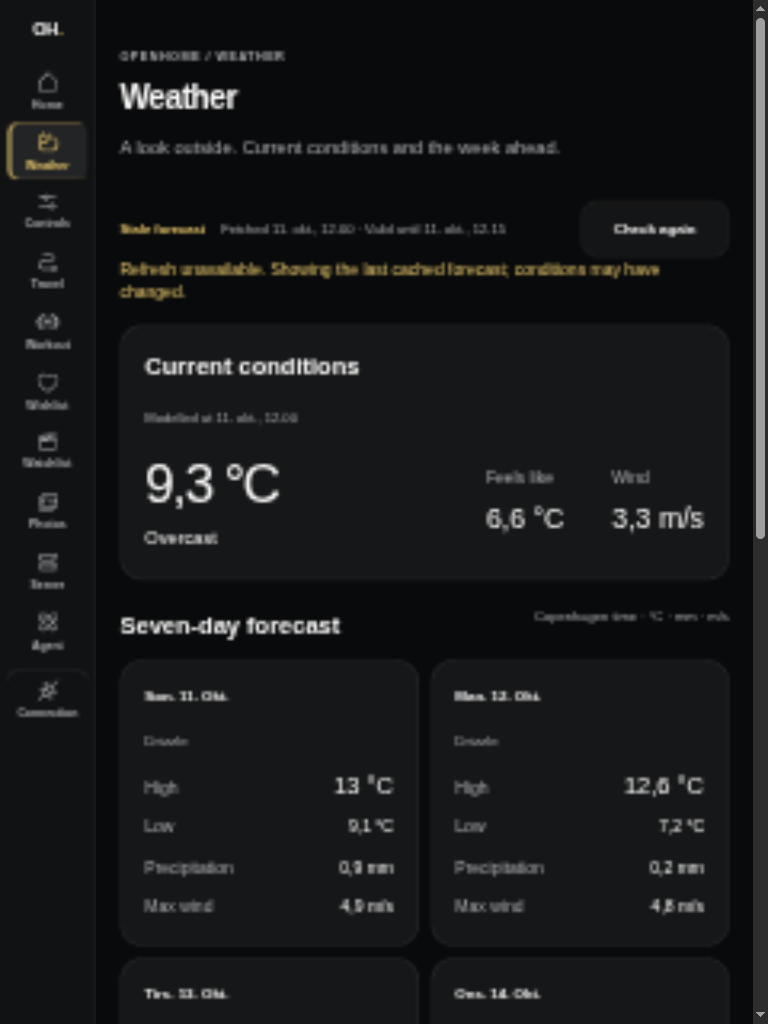
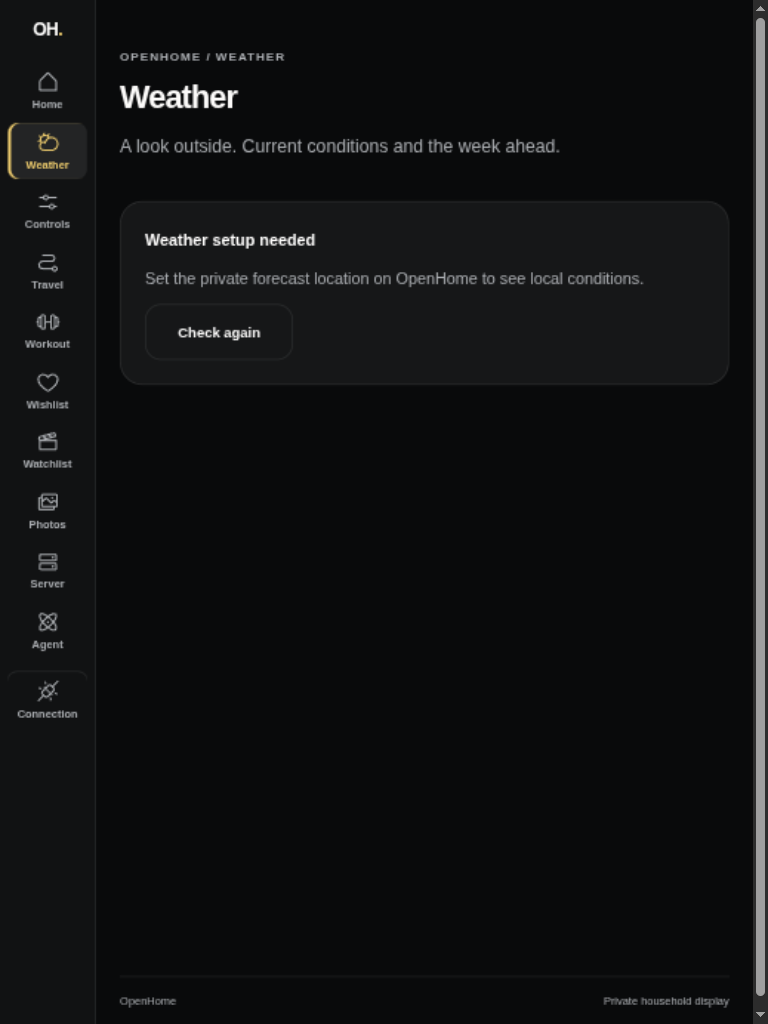
fix(dashboard): refresh weather on long-lived displays

diff --git a/dashboard/src/components/weather-overview.tsx b/dashboard/src/components/weather-overview.tsx
@@ -3,8 +3,10 @@ import { Await, Link } from "@tanstack/react-router"
 import { ArrowRightIcon } from "@phosphor-icons/react/dist/csr/ArrowRight"
 import { CloudSunIcon } from "@phosphor-icons/react/dist/csr/CloudSun"
 import { CheckAgainButton } from "./check-again-button"
+import { LiveWeather } from "./live-weather"
 import { Card, CardContent, CardHeader } from "./ui/card"
 import { weatherDescription, type WeatherRead } from "@/lib/weather"
+import { getWeather } from "@/lib/weather.functions"
 
 const number = new Intl.NumberFormat("da-DK", { maximumFractionDigits: 1 })
 
@@ -74,29 +76,35 @@ export function WeatherCard({
           <div className="flex h-full flex-col gap-2">
             <Suspense fallback={<p role="status">Checking weather…</p>}>
               <Await promise={weather}>
-                {(read) =>
-                  read.state === "unavailable" ? (
-                    <WeatherFailure reason={read.reason} />
-                  ) : (
-                    <>
-                      <p className="weather-card-temperature">
-                        {value(read.forecast.current?.temperature_c, "°C")}
-                      </p>
-                      <p>
-                        {weatherDescription(
-                          read.forecast.current?.weather_code ?? null
-                        )}
-                      </p>
-                      <p className="weather-meta">
-                        {read.state === "stale"
-                          ? "Stale forecast · "
-                          : "Fetched · "}
-                        {timestamp.format(new Date(read.forecast.fetched_at))}
-                      </p>
-                      <p className="weather-meta">Copenhagen time</p>
-                    </>
-                  )
-                }
+                {(initial) => (
+                  <LiveWeather initial={initial} readWeather={getWeather}>
+                    {(read) =>
+                      read.state === "unavailable" ? (
+                        <WeatherFailure reason={read.reason} />
+                      ) : (
+                        <>
+                          <p className="weather-card-temperature">
+                            {value(read.forecast.current?.temperature_c, "°C")}
+                          </p>
+                          <p>
+                            {weatherDescription(
+                              read.forecast.current?.weather_code ?? null
+                            )}
+                          </p>
+                          <p className="weather-meta">
+                            {read.state === "stale"
+                              ? "Stale forecast · "
+                              : "Fetched · "}
+                            {timestamp.format(
+                              new Date(read.forecast.fetched_at)
+                            )}
+                          </p>
+                          <p className="weather-meta">Copenhagen time</p>
+                        </>
+                      )
+                    }
+                  </LiveWeather>
+                )}
               </Await>
             </Suspense>
             <Link
@@ -145,8 +153,7 @@ export function WeatherOverview({
       </div>
       {weather.state === "stale" ? (
         <p className="weather-stale-note">
-          Refresh unavailable. Showing the last cached forecast; conditions may
-          have changed.
+          Showing the last cached forecast; conditions may have changed.
         </p>
       ) : null}
       <div className="weather-current">

diff --git a/dashboard/tests/weather-lifecycle.test.tsx b/dashboard/tests/weather-lifecycle.test.tsx
@@ -1,0 +1,119 @@
+// @vitest-environment happy-dom
+
+import { act } from "react"
+import { createRoot } from "react-dom/client"
+import { expect, test, vi } from "vitest"
+import { LiveWeather } from "@/components/live-weather"
+import {
+  weatherRead as weatherReadSchema,
+  type WeatherRead,
+} from "@/lib/weather"
+import fixture from "./fixtures/weather.json"
+
+test("expires an open forecast, retries failure, pauses while hidden and recovers on resume", async () => {
+  vi.stubGlobal("IS_REACT_ACT_ENVIRONMENT", true)
+  vi.useFakeTimers()
+  vi.setSystemTime(new Date("2026-10-11T10:14:30Z"))
+  const initial = weatherReadSchema.parse(fixture)
+  let reads = 0
+  let resolve: ((weather: WeatherRead) => void) | undefined
+
+  const readWeather = (): Promise<WeatherRead> => {
+    reads += 1
+
+    return new Promise((done) => {
+      resolve = done
+    })
+  }
+
+  const container = document.createElement("div")
+  const root = createRoot(container)
+
+  try {
+    await act(async () => {
+      root.render(
+        <LiveWeather initial={initial} readWeather={readWeather}>
+          {(weather) => weather.state}
+        </LiveWeather>
+      )
+    })
+    expect(container.textContent).toBe("fresh")
+    expect(reads).toBe(0)
+
+    // Resuming just before expiry can return Axum's still-fresh cached read.
+    await act(async () => {
+      document.dispatchEvent(new Event("visibilitychange"))
+    })
+    expect(reads).toBe(1)
+    await act(async () => {
+      resolve?.(initial)
+    })
+    expect(container.textContent).toBe("fresh")
+
+    await act(async () => {
+      await vi.advanceTimersByTimeAsync(30_000)
+    })
+    expect(container.textContent).toBe("stale")
+    expect(reads).toBe(2)
+    await act(async () => {
+      resolve?.({ state: "unavailable", reason: "provider-unavailable" })
+    })
+    expect(container.textContent).toBe("unavailable")
+    await act(async () => {
+      await vi.advanceTimersByTimeAsync(60_000)
+    })
+    expect(reads).toBe(3)
+    await act(async () => {
+      resolve?.({ state: "unavailable", reason: "provider-unavailable" })
+    })
+
+    Object.defineProperty(document, "visibilityState", {
+      configurable: true,
+      value: "hidden",
+    })
+    await act(async () => {
+      document.dispatchEvent(new Event("visibilitychange"))
+      await vi.advanceTimersByTimeAsync(24 * 3_600_000)
+    })
+    expect(reads).toBe(3)
+
+    Object.defineProperty(document, "visibilityState", {
+      configurable: true,
+      value: "visible",
+    })
+    await act(async () => {
+      document.dispatchEvent(new Event("visibilitychange"))
+    })
+    expect(reads).toBe(4)
+
+    const recovered = weatherReadSchema.parse({
+      ...fixture,
+      forecast: {
+        ...fixture.forecast,
+        fetched_at: new Date().toISOString(),
+        valid_until: new Date(Date.now() + 900_000).toISOString(),
+      },
+    })
+
+    await act(async () => {
+      resolve?.(recovered)
+    })
+    expect(container.textContent).toBe("fresh")
+    await act(async () => {
+      await vi.advanceTimersByTimeAsync(899_999)
+    })
+    expect(reads).toBe(4)
+    await act(async () => {
+      await vi.advanceTimersByTimeAsync(1)
+    })
+    expect(reads).toBe(5)
+    expect(container.textContent).toBe("stale")
+  } finally {
+    await act(async () => {
+      root.unmount()
+    })
+    Reflect.deleteProperty(document, "visibilityState")
+    vi.useRealTimers()
+    vi.unstubAllGlobals()
+  }
+})

diff --git a/dashboard/src/components/live-weather.tsx b/dashboard/src/components/live-weather.tsx
@@ -1,0 +1,99 @@
+import { useEffect, useState } from "react"
+import { unavailableWeather, type WeatherRead } from "@/lib/weather"
+
+/** Refresh only weather, following Axum validity and pausing off-screen. */
+export function LiveWeather({
+  initial,
+  readWeather,
+  children,
+}: {
+  initial: WeatherRead
+  readWeather: () => Promise<WeatherRead>
+  children: (weather: WeatherRead) => React.ReactNode
+}): React.ReactNode {
+  const [snapshot, setSnapshot] = useState({ initial, weather: initial })
+
+  if (snapshot.initial !== initial) {
+    setSnapshot({ initial, weather: initial })
+  }
+
+  useEffect(() => {
+    let latest = initial
+    let pending = false
+    let disposed = false
+    let timer: ReturnType<typeof setTimeout> | undefined
+
+    function expire(): void {
+      if (
+        latest.state === "fresh" &&
+        Date.parse(latest.forecast.valid_until) <= Date.now()
+      ) {
+        latest = { state: "stale", forecast: latest.forecast }
+      }
+
+      setSnapshot({ initial, weather: latest })
+    }
+
+    function schedule(): void {
+      clearTimeout(timer)
+
+      if (document.visibilityState === "hidden") return
+
+      const delay =
+        latest.state === "fresh"
+          ? Date.parse(latest.forecast.valid_until) - Date.now()
+          : 60_000
+
+      timer = setTimeout(() => {
+        void refresh()
+      }, delay)
+    }
+
+    async function refresh(): Promise<void> {
+      clearTimeout(timer)
+
+      if (document.visibilityState === "hidden") return
+      expire()
+
+      if (pending) return
+      pending = true
+
+      const read = await readWeather().catch(() => unavailableWeather)
+
+      if (disposed) return
+
+      pending = false
+      latest = read
+      expire()
+
+      schedule()
+    }
+
+    function visibilityChanged(): void {
+      clearTimeout(timer)
+
+      if (document.visibilityState !== "hidden") void refresh()
+    }
+
+    if (
+      initial.state === "fresh" &&
+      Date.parse(initial.forecast.valid_until) <= Date.now()
+    ) {
+      timer = setTimeout(() => {
+        void refresh()
+      }, 0)
+    } else {
+      schedule()
+    }
+
+    document.addEventListener("visibilitychange", visibilityChanged)
+
+    return () => {
+      disposed = true
+      clearTimeout(timer)
+      document.removeEventListener("visibilitychange", visibilityChanged)
+    }
+  }, [initial, readWeather])
+
+  return children(snapshot.weather)
+}

diff --git a/dashboard/src/routes/weather.tsx b/dashboard/src/routes/weather.tsx
@@ -1,5 +1,6 @@
 import { createFileRoute } from "@tanstack/react-router"
 import { WeatherOverview } from "@/components/weather-overview"
+import { LiveWeather } from "@/components/live-weather"
 import { getWeather } from "@/lib/weather.functions"
 import { unavailableWeather } from "@/lib/weather"
 
@@ -22,7 +23,9 @@ function WeatherPage(): React.JSX.Element {
           A look outside. Current conditions and the week ahead.
         </p>
       </header>
-      <WeatherOverview weather={Route.useLoaderData()} />
+      <LiveWeather initial={Route.useLoaderData()} readWeather={getWeather}>
+        {(weather) => <WeatherOverview weather={weather} />}
+      </LiveWeather>
     </section>
   )
 }

diff --git a/dashboard/docs/weather/README.md b/dashboard/docs/weather/README.md
@@ -30,10 +30,12 @@ household weather. Before is the existing parent-branch Home capture.
   timezone, concurrent refreshes, the 15-minute freshness boundary, one-minute
   failure backoff, six-hour stale expiry and recovery. The route requires the
   API key even when location is missing.
-- `devenv shell -- just dashboard-check` passes, including all 64 tests and
+- `devenv shell -- just dashboard-check` passes, including all 65 tests and
   the production build. HTTP application tests cover Home and Weather,
   dates/units, missing/stale/setup/failure states, privacy and browser streaming
-  before weather completes.
+  before weather completes. A rendered lifecycle regression covers validity
+  expiry, a cached read shortly before expiry, failure retries, overnight pause
+  while hidden and recovery when Safari resumes.
 - On 2026-10-11 the production Axum executable, with isolated temporary
   databases and the unrelated demo location, fetched real Open-Meteo data:
   fresh current conditions and seven normalized days without coordinates in
@@ -69,6 +71,9 @@ configuration and never calls the provider directly.
 One Axum instance shares a cache across views and clients: 15 minutes fresh,
 failed refreshes at most once per minute, stale data retained for at most six
 hours. Upstream calls time out after five seconds. Failed refreshes preserve
-fetch/validity times; Check again never forces an upstream request. Cache is
+fetch/validity times. Both views refresh weather at its validity boundary,
+retry unavailable or stale reads once a minute while visible, and refresh on
+visibility resume independently of controls. Check again never forces an
+upstream request. Cache is
 lost on restart. Open-Meteo's free terms permit personal home automation; see
 [ADR 0006](../../../docs/adr/0006-weather-provider-and-cache.md).
